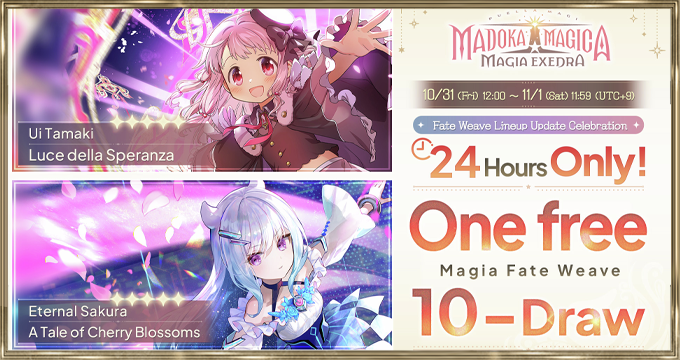
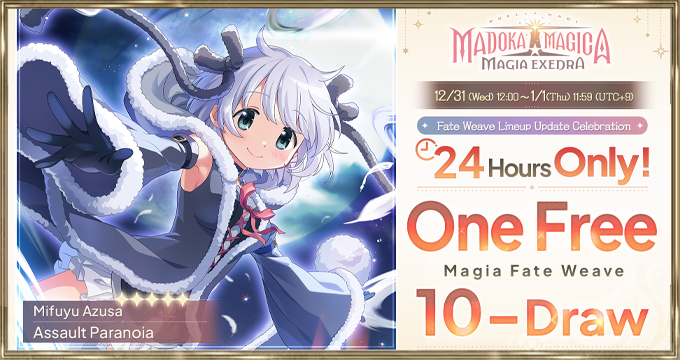
quick nye update part 1

diff --git a/js/data.js b/js/data.js
@@ -574,9 +574,9 @@ var timerData = [
                 "end": "jan 1 2026, 11:59"
 			},
             {
-				name: "PMMM Beginnings / Eternal Showcase",
-                "start": "oct 10 2025, 12:00",
-                "end": "dec 24 2025, 23:59"
+				name: "【Paid Only】Showcase Fate Weave",
+                "start": "jan 1 2026, 00:00",
+                "end": "jan 23 2026, 11:59",
 			},
             {
 				name: "Ultimate Madoka",
@@ -655,8 +655,8 @@ var timerData = [
         "timers": [
             {
                 name: "24 Hours Only!🪄",
-                "start": "oct 31 2025, 12:00",
-                "end": "nov 1 2025, 11:59",
+                "start": "Dec 31 2025, 12:00",
+                "end": "jan 1 2026, 11:59",
                 extraPriority: 1000
             },
         ]
@@ -839,19 +839,19 @@ var timerData = [
 	{
         "type": "Gacha",
         "title": [
-		    "【Featuted】Showcase Fate Weave",
-            "『放送記念 フィーチャーガチャ 』"
+		    "【Paid Only】Showcase Fate Weave",
+            "『有償限定 ステップアップガチャ』"
         ],
         "image": [
-			"imgs/exedra/gacha00/showcase.png",
+			"imgs/exedra/feat/ny-paid.png",
         ],
         "column": 1,
         "priority": 0,
         "timers": [
             {
-                name: " [Hollow Woman] Mabayu Aki [Baldamente Fortissimo] Sayaka Miki",
-                "start": "sept 18 2025, 12:00",
-                "end": "oct 02 2025, 11:59",
+                name: "Attacker | Buffer&Debuffer | Defender & Healer | Breaker",
+                "start": "jan 1 2026, 00:00",
+                "end": "jan 22 2026, 11:59",
             },
             {
                 name: "Flame -[Flame Waltz] [Kugatachi] [Universe's Edge]",
